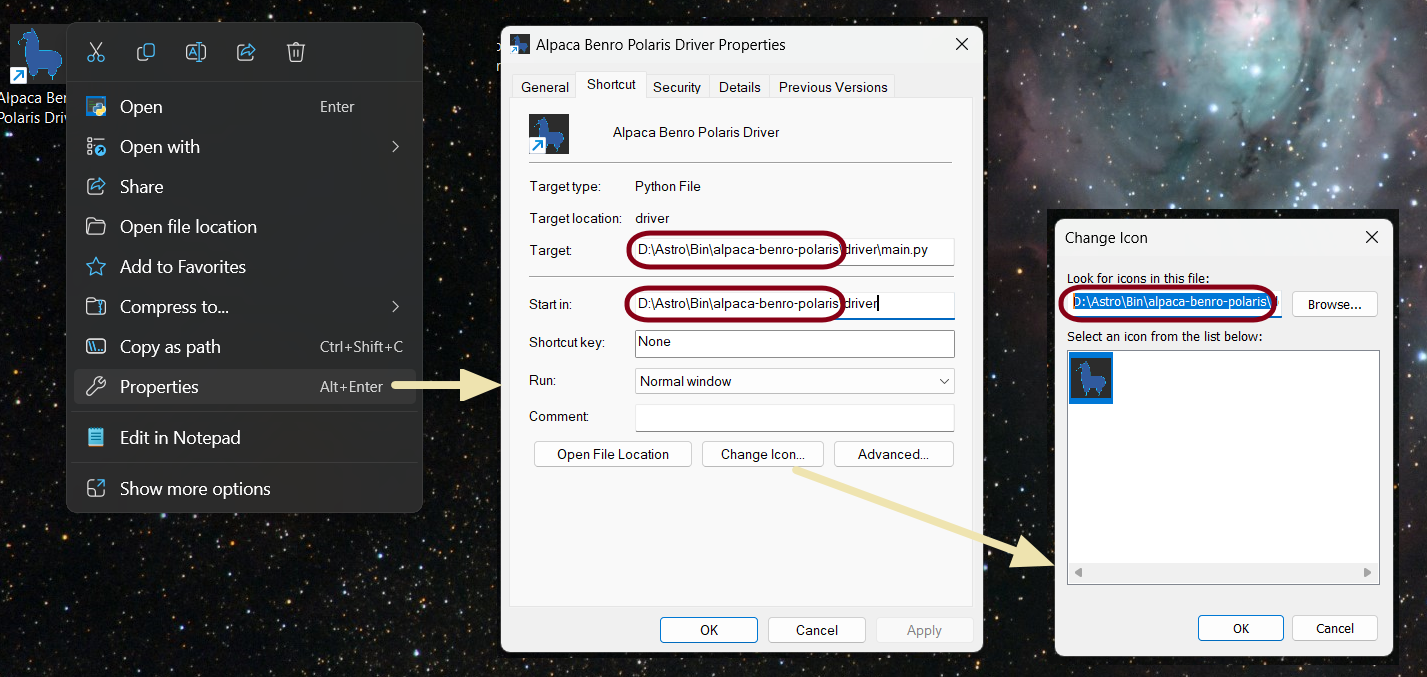
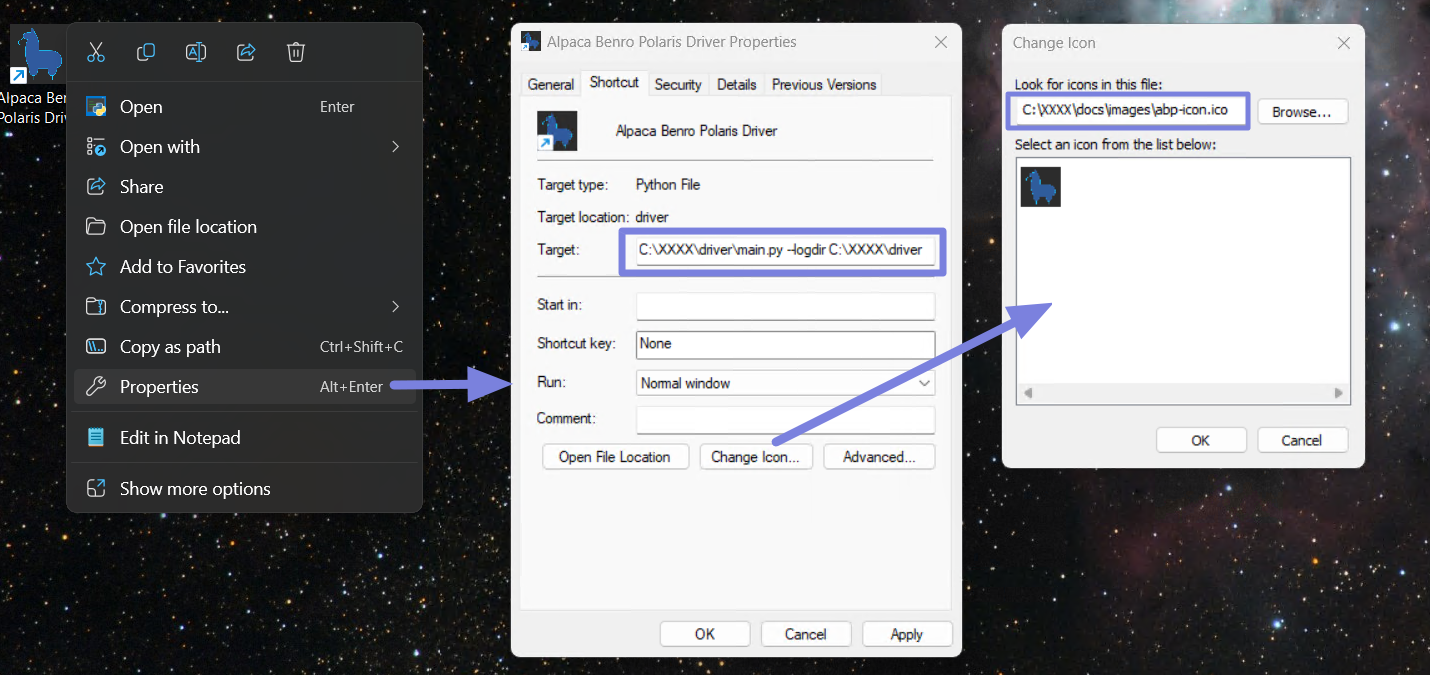
enh(log) allow command line parameters and fix problem with logdir on win11 shortcut

diff --git a/driver/main.py b/driver/main.py
@@ -44,6 +44,7 @@ from discovery import DiscoveryResponder
 import telescope
 import stellarium
 import app
+import argparse
 
 # ===========
 # APP STARTUP
@@ -94,6 +95,28 @@ async def main():
 
 # ==================================================================
 if __name__ == '__main__':
+
+    parser = argparse.ArgumentParser(description="Alpaca Benro Polaris Driver.")
+
+    # Add the arguments
+    parser.add_argument('--lat', type=float, help='Site Latitude in decimal degrees')
+    parser.add_argument('--lon', type=float, help='Site Longitude in decimal degrees')
+    parser.add_argument('--elev', type=float, help='Site Elevation from sea level in meters')
+    parser.add_argument('--logdir', type=str, help='Directory to store log file(s)')
+
+    # Parse the arguments
+    args = parser.parse_args()
+
+    # Store any of the optional the arguments
+    if args.lat:
+        Config.site_latitude = args.lat
+    if args.lon:
+        Config.site_longitude = args.lon
+    if args.elev:
+        Config.site_elevation = args.elev
+    if args.logdir:
+        Config.log_dir = args.logdir
+
     try:
         asyncio.run(main())
     except ValueError as value:

diff --git a/driver/log.py b/driver/log.py
@@ -74,8 +74,9 @@ def init_logging():
     logger.handlers[0].setFormatter(formatter)  # This is the stdout handler, level set above
     # Add a logfile handler, same formatter and level
     if Config.log_to_file or Config.log_performance_data:
-        logfile = 'alpaca.log' if not Config.log_performance_data else 'alpaca.csv'
-        logpath = os.path.join(os.getcwd()+os.sep, logfile)
+        logfile = 'alpaca.log' if (not Config.log_performance_data) else 'alpaca.csv'
+        logdir = Config.log_dir if Config.log_dir else '.'
+        logpath = os.path.join(logdir, logfile)
         handler = logging.handlers.RotatingFileHandler(logpath,
                                                         mode='w',
                                                         delay=False,     # True to Prevent creation of empty logs

diff --git a/driver/config.py b/driver/config.py
@@ -88,6 +88,7 @@ class Config:
     # ---------------
     # Logging Section
     # ---------------
+    log_dir: str = get_toml('logging', 'log_dir')
     log_level: int = logging.getLevelName(get_toml('logging', 'log_level'))  # Not documented but works (!!!!)
     log_to_file: str = get_toml('logging', 'log_to_file')
     log_to_stdout: str = get_toml('logging', 'log_to_stdout')

diff --git a/docs/installation.md b/docs/installation.md
@@ -23,9 +23,15 @@ The Alpaca Benro Polaris requires Python 3+ and some libraries to be installed b
     C:\Users\Astro> cd alpaca-benro-polaris-main
     C:\Users\Astro\alpaca-benro-polaris-main> pip install -r platforms/win/requirements.txt
     ```
-4. Optionally, you can copy the file `platforms\win\Alpaca Benro Polaris Driver.lnk` to your desktop, right-click to modify properties, and change the fields `Target`, `Start In`, and `Icon` to point to the location you expanded the zip file.
-![Winidows Shortcut](images/abp-shortcut.png)
-   
+4. Optionally, you can copy the file `platforms\win\Alpaca Benro Polaris Driver.lnk` to your desktop, right-click to modify properties, and change the fields `Target`, and `Icon` to point to the location you expanded the zip file. Note the `Target` has two XXXX paths you need to modify.
+    ```
+    Target: C:\XXXX\driver\main.py --logdir C:\XXXX\driver
+    Icon: C:\XXXX\docs\images\abp-icon.ico
+    ```
+
+    ![Winidows Shortcut](images/abp-shortcut.png)
+
+
 ### Running the Alpaca Benro Polaris Driver
 Start the Alpaca Benro Polaris driver using the shortcut or the following command.
 ```
